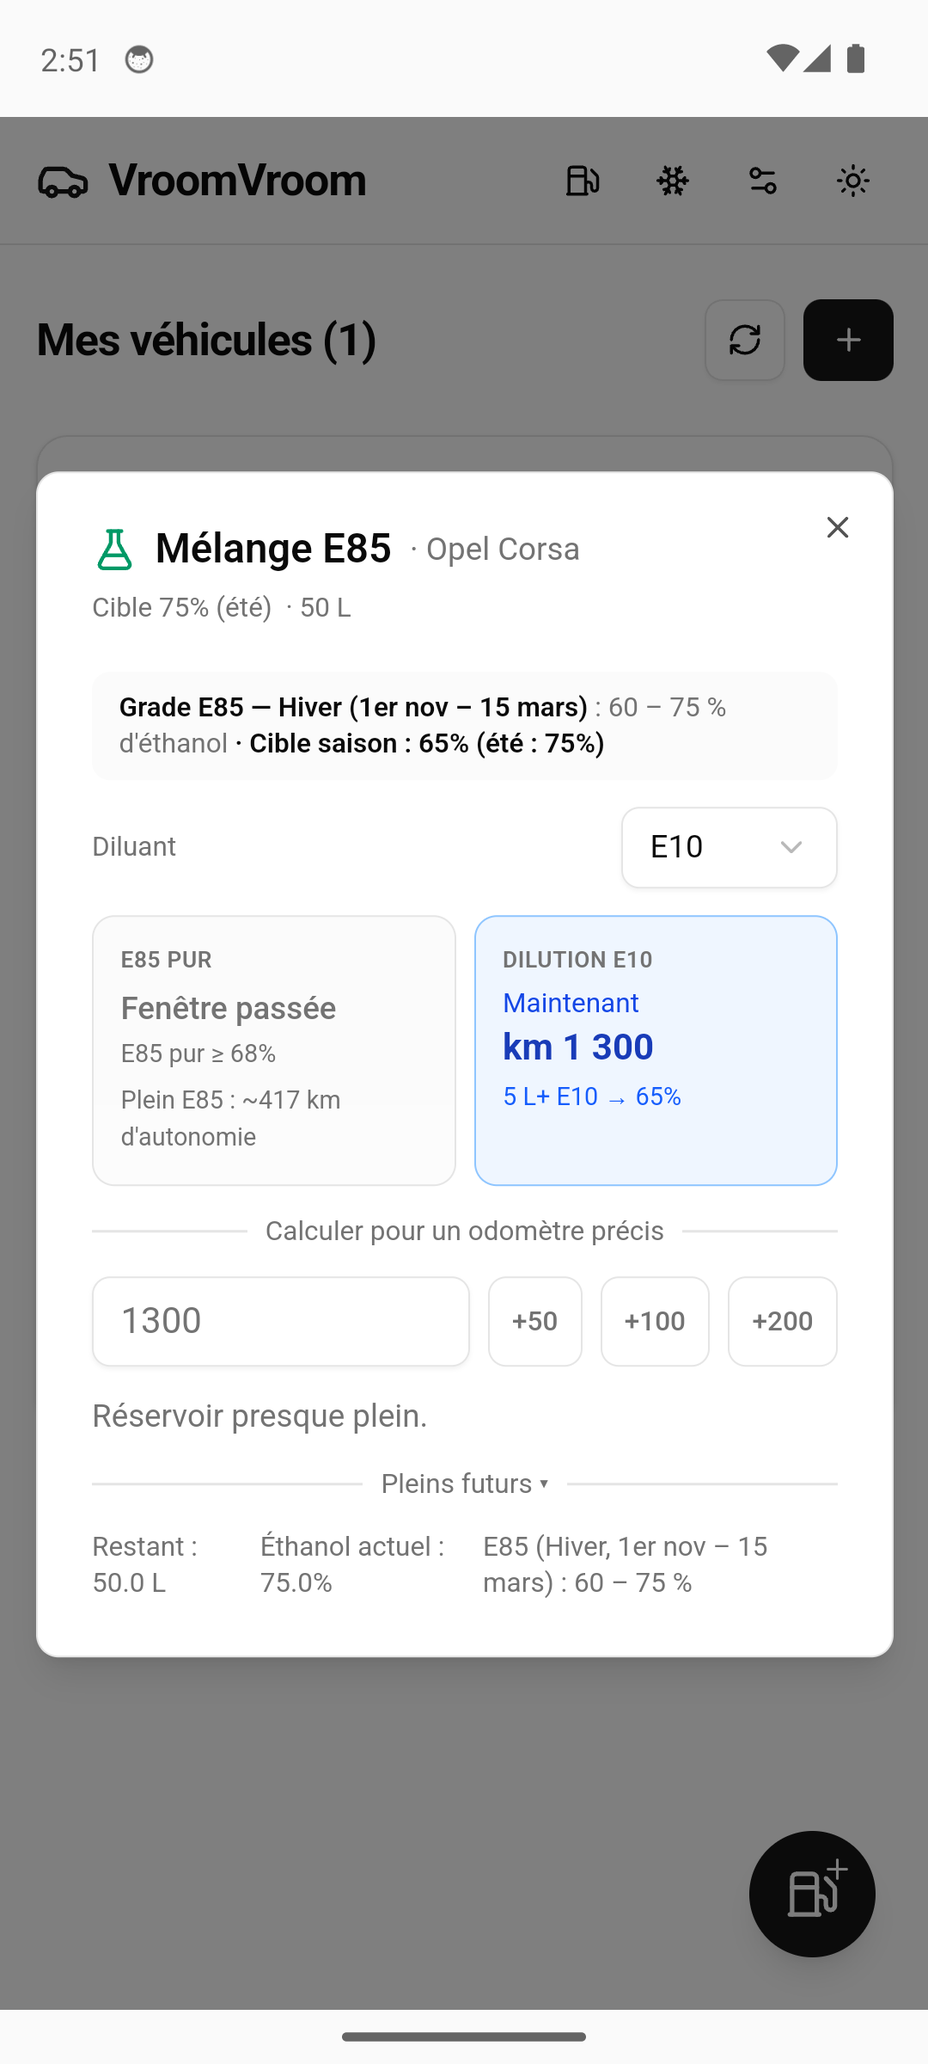
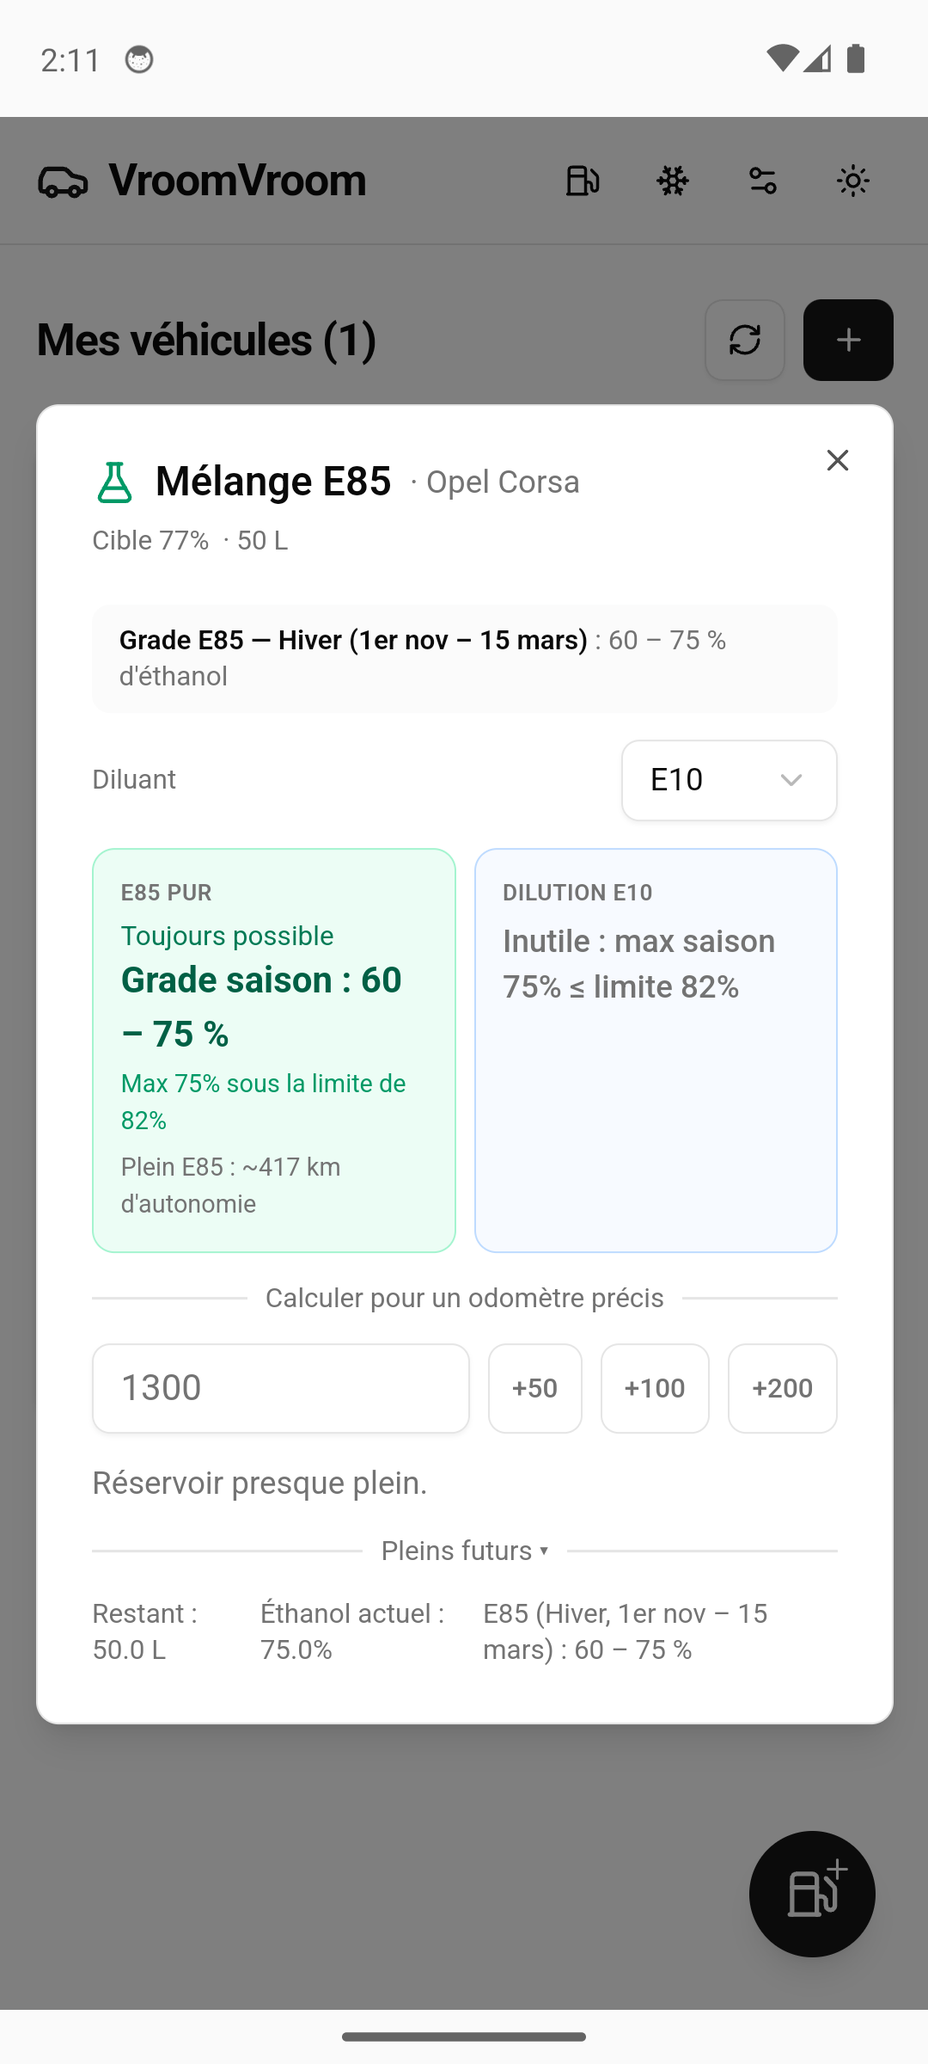
Retraits demandés : bouton « À la pompe », ligne grade en haut du calculateur ; cible saison repliée à l'état grade-saisonnier (8b8bfb2)
- Revert des fichiers E85 à 8b8bfb2 (grade saisonnier à bornes conservé,
  cible adaptée 75→65 retirée — demande dilution ambiguë, fallback autorisé).
- Bouton pompe retiré : VehicleCard (icône goutte + prop), VehicleGrid,
  Dashboard (state + dialog) ; PumpFillDialog et ses tests restent dans le
  repo (non câblés).
- Ligne « Grade E85 — … » en haut du form calculateur retirée ; le grade
  borné reste en pied de carte et dans les cartes.
- Doc Android : sections pompe supprimées (captures 06/07), renumérotation
  3.1–3.5, compte tests 355.
- 355 vitest verts + tsc -b.

diff --git a/frontend-react/src/components/flexfuel/flexfuel-dialogs.test.tsx b/frontend-react/src/components/flexfuel/flexfuel-dialogs.test.tsx
@@ -289,7 +289,7 @@ describe('BlendCalculator', () => {
     expect(screen.queryByText(/Renseignez la capacité du réservoir/)).toBeNull()
   })
 
-  it('adapts the target to the season and shows live km thresholds (hiver, 02/11/2026)', () => {
+  it('shows the bounded seasonal grade and explains dilution-off (hiver, 02/11/2026)', () => {
     vi.useFakeTimers()
     vi.setSystemTime(new Date('2026-11-02T08:00:00'))
     const entries = [
@@ -299,14 +299,13 @@ describe('BlendCalculator', () => {
     render(<BlendCalculator conversion={conversion1} vehicle={vehicleFull1} entries={entries} embedded />)
     // Range of a full E85 tank — always visible
     expect(screen.getByText(/Plein E85 : ~[\d\s]+ km d'autonomie/)).toBeInTheDocument()
-    // Bounded seasonal grade + adapted target (77 % saisi en été → 67 % en hiver, limite 72 %)
-    expect(screen.getByText(/Grade E85 — Hiver \(1er nov – 15 mars\)/)).toBeInTheDocument()
-    expect(screen.getByText(/60 – 75 % d'éthanol/)).toBeInTheDocument()
-    expect(screen.getByText(/Cible saison : 67% \(été : 77%\)/)).toBeInTheDocument()
-    // E85 peut monter à 75 % > limite 72 % → les km de seuils reviennent, la dilution n'est plus « inutile »
-    expect(screen.queryByText('Toujours possible')).toBeNull()
-    expect(screen.getByText("Jusqu'au km")).toBeInTheDocument()
-    expect(screen.queryByText(/Inutile : max saison/)).toBeNull()
+    // Bounded seasonal grade in the footer (top grade line removed on request)
+    expect(screen.getByText(/E85 \(Hiver, 1er nov – 15 mars\) : 60 – 75 %/)).toBeInTheDocument()
+    expect(screen.queryByText(/Grade E85 — /)).toBeNull()
+    // Max saison 75 % ≤ limite 82 % → E85 pur OK, dilution inutile — les bornes expliquent pourquoi
+    expect(screen.getByText('Toujours possible')).toBeInTheDocument()
+    expect(screen.getByText('Grade saison : 60 – 75 %')).toBeInTheDocument()
+    expect(screen.getByText(/Inutile : max saison 75% ≤ limite 82%/)).toBeInTheDocument()
     vi.useRealTimers()
   })
 
@@ -318,7 +317,7 @@ describe('BlendCalculator', () => {
       { ...latestEntry1, id: 2, fueling_date: '2025-01-20', odometer_reading: 50500 },
     ] as FuelEntry[]
     render(<BlendCalculator conversion={conversion1} vehicle={vehicleFull1} entries={entries} embedded />)
-    expect(screen.getByText(/Grade E85 — Été \(1er mai – 30 sept\)/)).toBeInTheDocument()
+    expect(screen.getByText(/E85 \(Été, 1er mai – 30 sept\) : 85 %/)).toBeInTheDocument()
     // Max saison 85 % > limite 82 % : les seuils km reviennent, plus de « Toujours possible »
     expect(screen.queryByText('Toujours possible')).toBeNull()
     expect(screen.getByText("Jusqu'au km")).toBeInTheDocument()

diff --git a/frontend-react/src/components/flexfuel/BlendCalculator.tsx b/frontend-react/src/components/flexfuel/BlendCalculator.tsx
@@ -18,7 +18,6 @@ import {
   e85EthanolFraction,
   e85Season,
   formatE85Range,
-  seasonalTarget,
   simulateFutureFills,
 } from '@/lib/blend-math'
 import type { DilutantType } from '@/lib/blend-math'
@@ -52,10 +51,7 @@ export function BlendCalculator({
   // Aliased condition so the memos below narrow tankCapacity to number.
   const hasTankCapacity = tankCapacity != null
   const conversionDate = conversion.conversion_date
-  // Cible saisie sur l'échelle de l'été (85 % = max d'été) : tous les calculs
-  // et affichages ci-dessous utilisent la cible adaptée à la saison.
-  const targetSummer = conversion.target_ethanol_pct
-  const target = seasonalTarget(targetSummer, season)
+  const target = conversion.target_ethanol_pct
   const tolerance = conversion.ethanol_tolerance_pct
 
   const avgConsumption = useMemo(
@@ -400,14 +396,6 @@ export function BlendCalculator({
 
   const content = (
     <div className="space-y-3">
-      {/* Seasonal grade — bounded display (min – max ethanol of the season) */}
-      <div className="rounded-md bg-muted/40 px-3 py-2 text-xs">
-        <span className="font-semibold">Grade E85 — {season.label} ({season.periode})</span>
-        <span className="text-muted-foreground"> : {formatE85Range(season)} d'éthanol</span>
-        {target !== targetSummer && (
-          <span className="font-semibold"> · Cible saison : {target}% (été : {targetSummer}%)</span>
-        )}
-      </div>
       {/* Dilutant selector */}
       <div className="flex items-center justify-between gap-2">
         <span className="text-xs text-muted-foreground">Diluant</span>
@@ -552,7 +540,7 @@ export function BlendCalculator({
           Mélange E85
         </CardTitle>
         <p className="text-xs text-muted-foreground">
-          Cible {targetSummer}% (été) &nbsp;· {tankCapacity} L &nbsp;· {avgConsumption.toFixed(1)} L/100km
+          Cible {target}% &nbsp;· {tankCapacity} L &nbsp;· {avgConsumption.toFixed(1)} L/100km
         </p>
       </CardHeader>
       <CardContent>{content}</CardContent>

diff --git a/frontend-react/src/pages/Dashboard.tsx b/frontend-react/src/pages/Dashboard.tsx
@@ -21,7 +21,6 @@ import { FuelViewDialog } from '@/components/fuel/FuelViewDialog'
 import { MaintenanceAddDialog } from '@/components/maintenance/MaintenanceAddDialog'
 import { MaintenanceViewDialog } from '@/components/maintenance/MaintenanceViewDialog'
 import { BlendCalculatorDialog } from '@/components/flexfuel/BlendCalculatorDialog'
-import { PumpFillDialog } from '@/components/flexfuel/PumpFillDialog'
 import { seedE10BasePriceIfNeeded } from '@/lib/e10-seed'
 
 export function Dashboard() {
@@ -39,7 +38,6 @@ export function Dashboard() {
   const [maintenanceAddVehicleId, setMaintenanceAddVehicleId] = useState<number | null>(null)
   const [maintenanceViewVehicleId, setMaintenanceViewVehicleId] = useState<number | null>(null)
   const [blendCalcVehicleId, setBlendCalcVehicleId] = useState<number | null>(null)
-  const [pumpFillVehicleId, setPumpFillVehicleId] = useState<number | null>(null)
   const [fabSheetOpen, setFabSheetOpen] = useState(false)
 
   // First launch (local mode): seed a base E10 price (cheapest Paris station)
@@ -164,7 +162,6 @@ export function Dashboard() {
         onMaintenanceAdd={setMaintenanceAddVehicleId}
         onMaintenanceView={setMaintenanceViewVehicleId}
         onBlendCalc={setBlendCalcVehicleId}
-        onPumpFill={setPumpFillVehicleId}
       />
 
       {/* Dialogs */}
@@ -201,11 +198,6 @@ export function Dashboard() {
         vehicleId={blendCalcVehicleId}
         onClose={() => setBlendCalcVehicleId(null)}
       />
-      <PumpFillDialog
-        vehicleId={pumpFillVehicleId}
-        onClose={() => setPumpFillVehicleId(null)}
-      />
-
       {/* Floating Action Button — quick fuel add */}
       <button
         onClick={handleFabClick}

diff --git a/frontend-react/src/components/vehicles/VehicleCard.tsx b/frontend-react/src/components/vehicles/VehicleCard.tsx
@@ -9,7 +9,6 @@ import {
   TrendingUp,
   Wallet,
   FlaskConical,
-  Droplets,
 } from 'lucide-react'
 import { Card, CardContent, CardFooter, CardHeader } from '@/components/ui/card'
 import { Badge } from '@/components/ui/badge'
@@ -49,7 +48,6 @@ interface VehicleCardProps {
   onMaintenanceAdd: () => void
   onMaintenanceView: () => void
   onBlendCalc?: () => void
-  onPumpFill?: () => void
 }
 
 export function VehicleCard({
@@ -60,7 +58,6 @@ export function VehicleCard({
   onFuelView,
   onMaintenanceView,
   onBlendCalc,
-  onPumpFill,
 }: VehicleCardProps) {
   const { data: stats } = useVehicleStats(vehicle.id)
   const { data: costStats } = useVehicleCostStats(vehicle.id)
@@ -279,17 +276,6 @@ export function VehicleCard({
               </Button>
             </TooltipTrigger>
             <TooltipContent>Mélange E85</TooltipContent>
-          </Tooltip>
-        )}
-
-        {flexfuelConversion && onPumpFill && (
-          <Tooltip>
-            <TooltipTrigger asChild>
-              <Button variant="ghost" size="icon" className="h-10 w-10 bg-emerald-600 text-white hover:bg-emerald-700" onClick={onPumpFill} aria-label="À la pompe">
-                <Droplets className="h-5 w-5" />
-              </Button>
-            </TooltipTrigger>
-            <TooltipContent>À la pompe</TooltipContent>
           </Tooltip>
         )}
 

diff --git a/frontend-react/src/components/flexfuel/PumpFillDialog.tsx b/frontend-react/src/components/flexfuel/PumpFillDialog.tsx
@@ -29,7 +29,6 @@ import {
   e85EthanolFraction,
   e85Season,
   formatE85Range,
-  seasonalTarget,
 } from '@/lib/blend-math'
 import type { DilutantType } from '@/lib/blend-math'
 import { buildBlendPayloads } from '@/lib/pump-fill'
@@ -75,10 +74,7 @@ export function PumpFillDialog({ vehicleId, onClose }: PumpFillDialogProps) {
 
   const tankCapacity = vehicle?.tank_capacity ?? null
   const conversionDate = conversion?.conversion_date ?? null
-  const targetSummer = conversion?.target_ethanol_pct ?? 77
-  // Cible saisie sur l'échelle de l'été, adaptée à la saison (65 % en hiver
-  // si 75 % saisi) — la tolérance reste absolue.
-  const target = seasonalTarget(targetSummer, e85Season())
+  const target = conversion?.target_ethanol_pct ?? 77
   const tolerance = conversion?.ethanol_tolerance_pct ?? 5
 
   // Same derivation as BlendCalculator (fill-to-fill tank state, remaining
@@ -251,7 +247,6 @@ export function PumpFillDialog({ vehicleId, onClose }: PumpFillDialogProps) {
               </p>
               <p className="mt-1 text-xs text-muted-foreground">
                 Grade E85 ({season.label}, {season.periode}) : {formatE85Range(season)} d'éthanol
-                {target !== targetSummer && <> · cible {target}%</>}
               </p>
             </div>
 

diff --git a/frontend-react/src/lib/blend-math.test.ts b/frontend-react/src/lib/blend-math.test.ts
@@ -7,7 +7,6 @@ import {
   e85EthanolFraction,
   e85Season,
   formatE85Range,
-  seasonalTarget,
   fuelEthanolFraction,
   simulateFutureFills,
 } from './blend-math'
@@ -65,13 +64,6 @@ describe('seasonal E85 grade (4 periods, bounded)', () => {
     expect(formatE85Range(e85Season('2026-06-01'))).toBe('85 %')
     expect(formatE85Range(e85Season('2026-10-15'))).toBe('65 – 75 %')
     expect(formatE85Range(e85Season('2026-12-01'))).toBe('60 – 75 %')
-  })
-
-  it('adapts the summer-scale target to the season (−10 pts when the max is 75 %)', () => {
-    expect(seasonalTarget(75, e85Season('2026-06-01'))).toBe(75)   // été
-    expect(seasonalTarget(75, e85Season('2026-10-15'))).toBe(65)   // intersaison
-    expect(seasonalTarget(75, e85Season('2026-12-01'))).toBe(65)   // hiver
-    expect(seasonalTarget(77, e85Season('2027-03-16'))).toBe(67)   // intersaison printemps
   })
 
   it('distinguishes SP98-E5 from E10', () => {

diff --git a/frontend-react/src/components/flexfuel/FlexfuelConversionDialog.tsx b/frontend-react/src/components/flexfuel/FlexfuelConversionDialog.tsx
@@ -156,7 +156,7 @@ export function FlexfuelConversionDialog({
             <div className="space-y-2">
               <Label htmlFor="conv-ethanol-target">Taux éthanol cible (%)</Label>
               <Input id="conv-ethanol-target" type="number" step="0.1" min="0" max="100" {...form.register('target_ethanol_pct')} />
-              <p className="text-xs text-muted-foreground">Ex: 77% = 5L E10 + 40L E85 dans un réservoir 45L. Saisie sur l'échelle de l'été (85 % max) : adaptée à la saison (−10 pts en intersaisons/hiver, max 75 %).</p>
+              <p className="text-xs text-muted-foreground">Ex: 77% = 5L E10 + 40L E85 dans un réservoir 45L.</p>
             </div>
             <div className="space-y-2">
               <Label htmlFor="conv-ethanol-tol">Tolérance (%)</Label>

diff --git a/frontend-react/src/components/vehicles/VehicleGrid.tsx b/frontend-react/src/components/vehicles/VehicleGrid.tsx
@@ -13,7 +13,6 @@ interface VehicleGridProps {
   onMaintenanceAdd: (id: number) => void
   onMaintenanceView: (id: number) => void
   onBlendCalc: (id: number) => void
-  onPumpFill: (id: number) => void
 }
 
 export function VehicleGrid({
@@ -26,7 +25,6 @@ export function VehicleGrid({
   onMaintenanceAdd,
   onMaintenanceView,
   onBlendCalc,
-  onPumpFill,
 }: VehicleGridProps) {
   return (
     <div className="grid grid-cols-1 gap-4 md:grid-cols-2 xl:grid-cols-3">
@@ -42,7 +40,6 @@ export function VehicleGrid({
           onMaintenanceAdd={() => onMaintenanceAdd(vehicle.id)}
           onMaintenanceView={() => onMaintenanceView(vehicle.id)}
           onBlendCalc={() => onBlendCalc(vehicle.id)}
-          onPumpFill={() => onPumpFill(vehicle.id)}
         />
       ))}
     </div>

diff --git a/frontend-react/src/components/vehicles/vehicles.test.tsx b/frontend-react/src/components/vehicles/vehicles.test.tsx
@@ -354,8 +354,7 @@ describe('VehicleGrid', () => {
     renderWithProviders(
       <TooltipProvider><VehicleGrid vehicles={[vehicleList1, v2]} offlineQueue={queue}
         onDetails={vi.fn()} onEdit={vi.fn()} onFuelAdd={vi.fn()} onFuelView={vi.fn()}
-        onMaintenanceAdd={vi.fn()} onMaintenanceView={vi.fn()} onBlendCalc={vi.fn()}
-        onPumpFill={vi.fn()} /></TooltipProvider>,
+        onMaintenanceAdd={vi.fn()} onMaintenanceView={vi.fn()} onBlendCalc={vi.fn()} /></TooltipProvider>,
     )
     await waitFor(() => expect(screen.getByText(/AB-123-CD/)).toBeInTheDocument())
     expect(screen.getByText(/XY-999-ZZ/)).toBeInTheDocument()

diff --git a/frontend-react/src/lib/blend-math.ts b/frontend-react/src/lib/blend-math.ts
@@ -50,13 +50,6 @@ export function formatE85Range(season: E85Season): string {
     : `${Math.round(season.min * 100)} – ${Math.round(season.max * 100)} %`
 }
 
-/** Target entered on the summer scale (85 % = summer max), adapted to the
- *  season: cible + (max_saison − 85). 75 saisi → 75 en été, 65 en
- *  intersaisons/hiver (max 75 %). The stored value never changes. */
-export function seasonalTarget(inputPct: number, season: E85Season): number {
-  return Math.round((inputPct + (season.max - 0.85) * 100) * 10) / 10
-}
-
 export const ETHANOL_FRACTION: Record<string, number> = {
   essence: 0.10,
   sp98: 0.05,

diff --git a/frontend-react/src/components/flexfuel/BlendCalculatorDialog.tsx b/frontend-react/src/components/flexfuel/BlendCalculatorDialog.tsx
@@ -40,7 +40,7 @@ export function BlendCalculatorDialog({ vehicleId, onClose }: BlendCalculatorDia
 
         {conversion && (
           <p className="text-xs text-muted-foreground -mt-2 mb-1">
-            Cible {conversion.target_ethanol_pct}% (été) &nbsp;· {vehicle?.tank_capacity ?? '?'} L
+            Cible {conversion.target_ethanol_pct}% &nbsp;· {vehicle?.tank_capacity ?? '?'} L
           </p>
         )}
 

diff --git a/docs/app-android-utilisation.md b/docs/app-android-utilisation.md
@@ -34,49 +34,35 @@ coût du mois. Tout est persisté dans IndexedDB et survit aux redémarrages.*
 
 ## 3. Module E85
 
-### 3.1 Écran « À la pompe » (bouton goutte vert)
-
-![À la pompe](assets/06-a-la-pompe.png)
-*État du réservoir déduit du dernier plein (50 L − 300 km × 10 L/100 = 20 L restants),
-recommandation « 30,0 L E85 : plein direct » (grade d'hiver 75 % ≤ cible 77 % + tolérance),
-prix pré-rempli (dernier prix E85), compteur pré-rempli.*
-
-![Plein enregistré](assets/07-plein-enregistre.png)
-*Après « Enregistrer ces pleins » : toast, carte à jour (Pleins 3, Total 116 €,
-assurance recalculée à 13 700 km). Le mélange E10+E85 est enregistré en 2 entrées
-(booster partiel + plein) d'un seul coup.*
-
-### 3.2 Calculateur de mélange (bouton fiole vert)
+### 3.1 Calculateur de mélange (bouton fiole vert)
 
 ![Calculateur](assets/08-calculateur.png)
 *Sur données réelles (Corsa, réservoir plein 50 L à 75 % d'éthanol, conso 10 L/100,
 surconsommation boîtier 20 %) :*
 - **« Plein E85 : ~417 km d'autonomie »** — nombre de km faisables avec un plein full-éthanol
   (50 L ÷ 12 L/100 = conso E10 × 1,20).
-- **« Grade E85 — {saison} ({période}) : min – max % d'éthanol »** — la saison
-  courante avec sa **fourchette** (les stations ne sont pas obligatoirement au taux
-  nominal). Les 4 saisons : **Été** 1/5–30/9 : 85–85 % · **Intersaisons** 1/10–31/10
-  et 16/3–30/4 : 65–75 % · **Hiver** 1/11–15/3 : 60–75 %.
-- Cartes : « E85 PUR » (Jusqu'au km X / Fenêtre passée / Toujours possible) et
-  « DILUTION E10 » (Maintenant / À partir du km Y / Inutile) — avec la cible
-  saison, les seuils sont actifs **toute l'année** (capture ci-contre : hiver,
-  réservoir à 75 % ≥ limite 68 % → « Fenêtre passée » + dilution « Maintenant »).
+- **Grade E85 saisonnier à bornes** (pied de carte : « E85 (Hiver, 1er nov – 15 mars)
+  : 60 – 75 % ») — la saison courante avec sa **fourchette** (les stations ne sont
+  pas obligatoirement au taux nominal). Les 4 saisons : **Été** 1/5–30/9 : 85–85 % ·
+  **Intersaisons** 1/10–31/10 et 16/3–30/4 : 65–75 % · **Hiver** 1/11–15/3 : 60–75 %.
+- Cartes à bornes : « Toujours possible / Grade saison : 60 – 75 % / Max 75 % sous la
+  limite de 82 % » et « Inutile : max saison 75 % ≤ limite 82 % » — les bornes
+  expliquent pourquoi, au lieu de rien dire.
+- **En été** (max 85 % > limite 82 %) : les km de seuils reviennent — « Jusqu'au km X »
+  (dernier km à plein E85 pur sous la limite) et « À partir du km Y » (km à atteindre
+  pour pouvoir diluer au taux nécessaire, 5 L de diluant → cible exacte).
 - Sélecteur de diluant (E10/SP98), calcul pour un odomètre précis (+50/+100/+200),
   simulation « Pleins futurs » par paliers.
 - Tous les calculs de sécurité utilisent le **max** de la saison (surestimer
-  l'éthanol = recommander plus d'essence, jamais moins).
-- **Cible adaptée à la saison** : le taux cible est saisi sur l'échelle de l'été
-  (85 % = max d'été) ; l'app le décale de (max_saison − 85). Ex. 75 % saisi →
-  « Cible saison : 65 % (été : 75 %) » en hiver ; les calculs utilisent la cible
-  saison (tolérance absolue). Le réglage enregistré ne change jamais. Modèle
-  documenté dans `docs/plan-grade-e85-saisonnier.md`.
+  l'éthanol = recommander plus d'essence, jamais moins). Modèle documenté dans
+  `docs/plan-grade-e85-saisonnier.md`.
 
 Ces seuils utilisent exactement les mêmes fonctions que la version serveur
 (`computeThresholds` / `computeWinterRec` de `lib/blend-math.ts`) : le calculateur
 est le même composant React dans les deux versions, seul le transport des données
 diffère (API locale vs serveur), vérifié par diff différentiel (0 écart sur 19 endpoints).
 
-### 3.3 Prix E10 de référence (seed automatique)
+### 3.2 Prix E10 de référence (seed automatique)
 
 ![Prix E10](assets/10-prix-e10.png)
 *À la première ouverture (mode local, aucune référence E10), l'app enregistre
@@ -85,13 +71,13 @@ data.economie.gouv.fr) — ici 1,990 €/L du jour. La rentabilité E85 a donc u
 référence dès le premier plein. Les prix observés ensuite s'ajoutent manuellement
 (ou sont capturés automatiquement quand tu enregistres un plein E10).*
 
-### 3.4 Détails du véhicule — autonomie
+### 3.3 Détails du véhicule — autonomie
 
 ![Détails](assets/09-details-autonomie.png)
 *Autonomie estimée par saison (villes/route), projection « Si 100 % Essence /
 Si 100 % E85 » (ex. ~450 km plein E85), mix réel de la saison, suivi assurance.*
 
-### 3.5 Alerte froid (bouton flocon du header)
+### 3.4 Alerte froid (bouton flocon du header)
 
 ![Alerte froid](assets/11-alerte-froid.png)
 *Prévision open-meteo par commune : si la température du matin passe sous le seuil
@@ -101,7 +87,7 @@ démarrages à froid** » (+ « grade E85 60 – 75 % en cette période » en hi
 1er novembre – 15 mars). L'alerte nécessite l'app ouverte depuis la veille
 (limitation Android des notifications planifiées sans accès en arrière-plan).*
 
-### 3.6 Stations E85 (bouton pompe du header)
+### 3.5 Stations E85 (bouton pompe du header)
 
 ![Stations E85](assets/12-stations-e85.png)
 *Prix officiels des stations autour de ta position (GPS) ou d'une ville, rayon
@@ -143,15 +129,13 @@ l'app restent sur le téléphone (mode local) ou partent vers ton propre serveur
 ## 5. Ce qui est vérifié / limitations
 
 Vérifié sur émulateur (captures ci-dessus) : onboarding, CRUD véhicule + 4 pleins,
-stats live (bug d'invalidation corrigé), calculateur (seuils km + autonomie), flow
-pompe complet, seed E10, alerte froid (flux open-meteo), stations + filtre E85 +
-temps de trajet, panneau don, déverrouillage serveur, persistance IndexedDB.
-352 tests unitaires/front + 226 tests backend, et un diff différentiel
+stats live (bug d'invalidation corrigé), calculateur (seuils km + autonomie),
+seed E10, alerte froid (flux open-meteo), stations + filtre E85 + temps de
+trajet, panneau don, déverrouillage serveur, persistance IndexedDB.
+355 tests unitaires/front + 226 tests backend, et un diff différentiel
 backend-réel ↔ port-local : 0 écart de valeur sur 19 endpoints.
 
 Limitations connues :
-- Écran « À la pompe » **en ligne uniquement** (la file hors-ligne du classic
-  « Ajouter un plein » gère le hors-ligne).
 - L'alerte froid planifiée exige l'app ouverte depuis la veille (contrainte
   Android ; pas de foreground service par design).
 - Le datalist de villes du WebView d'émulateur est capricieux (sélection au
